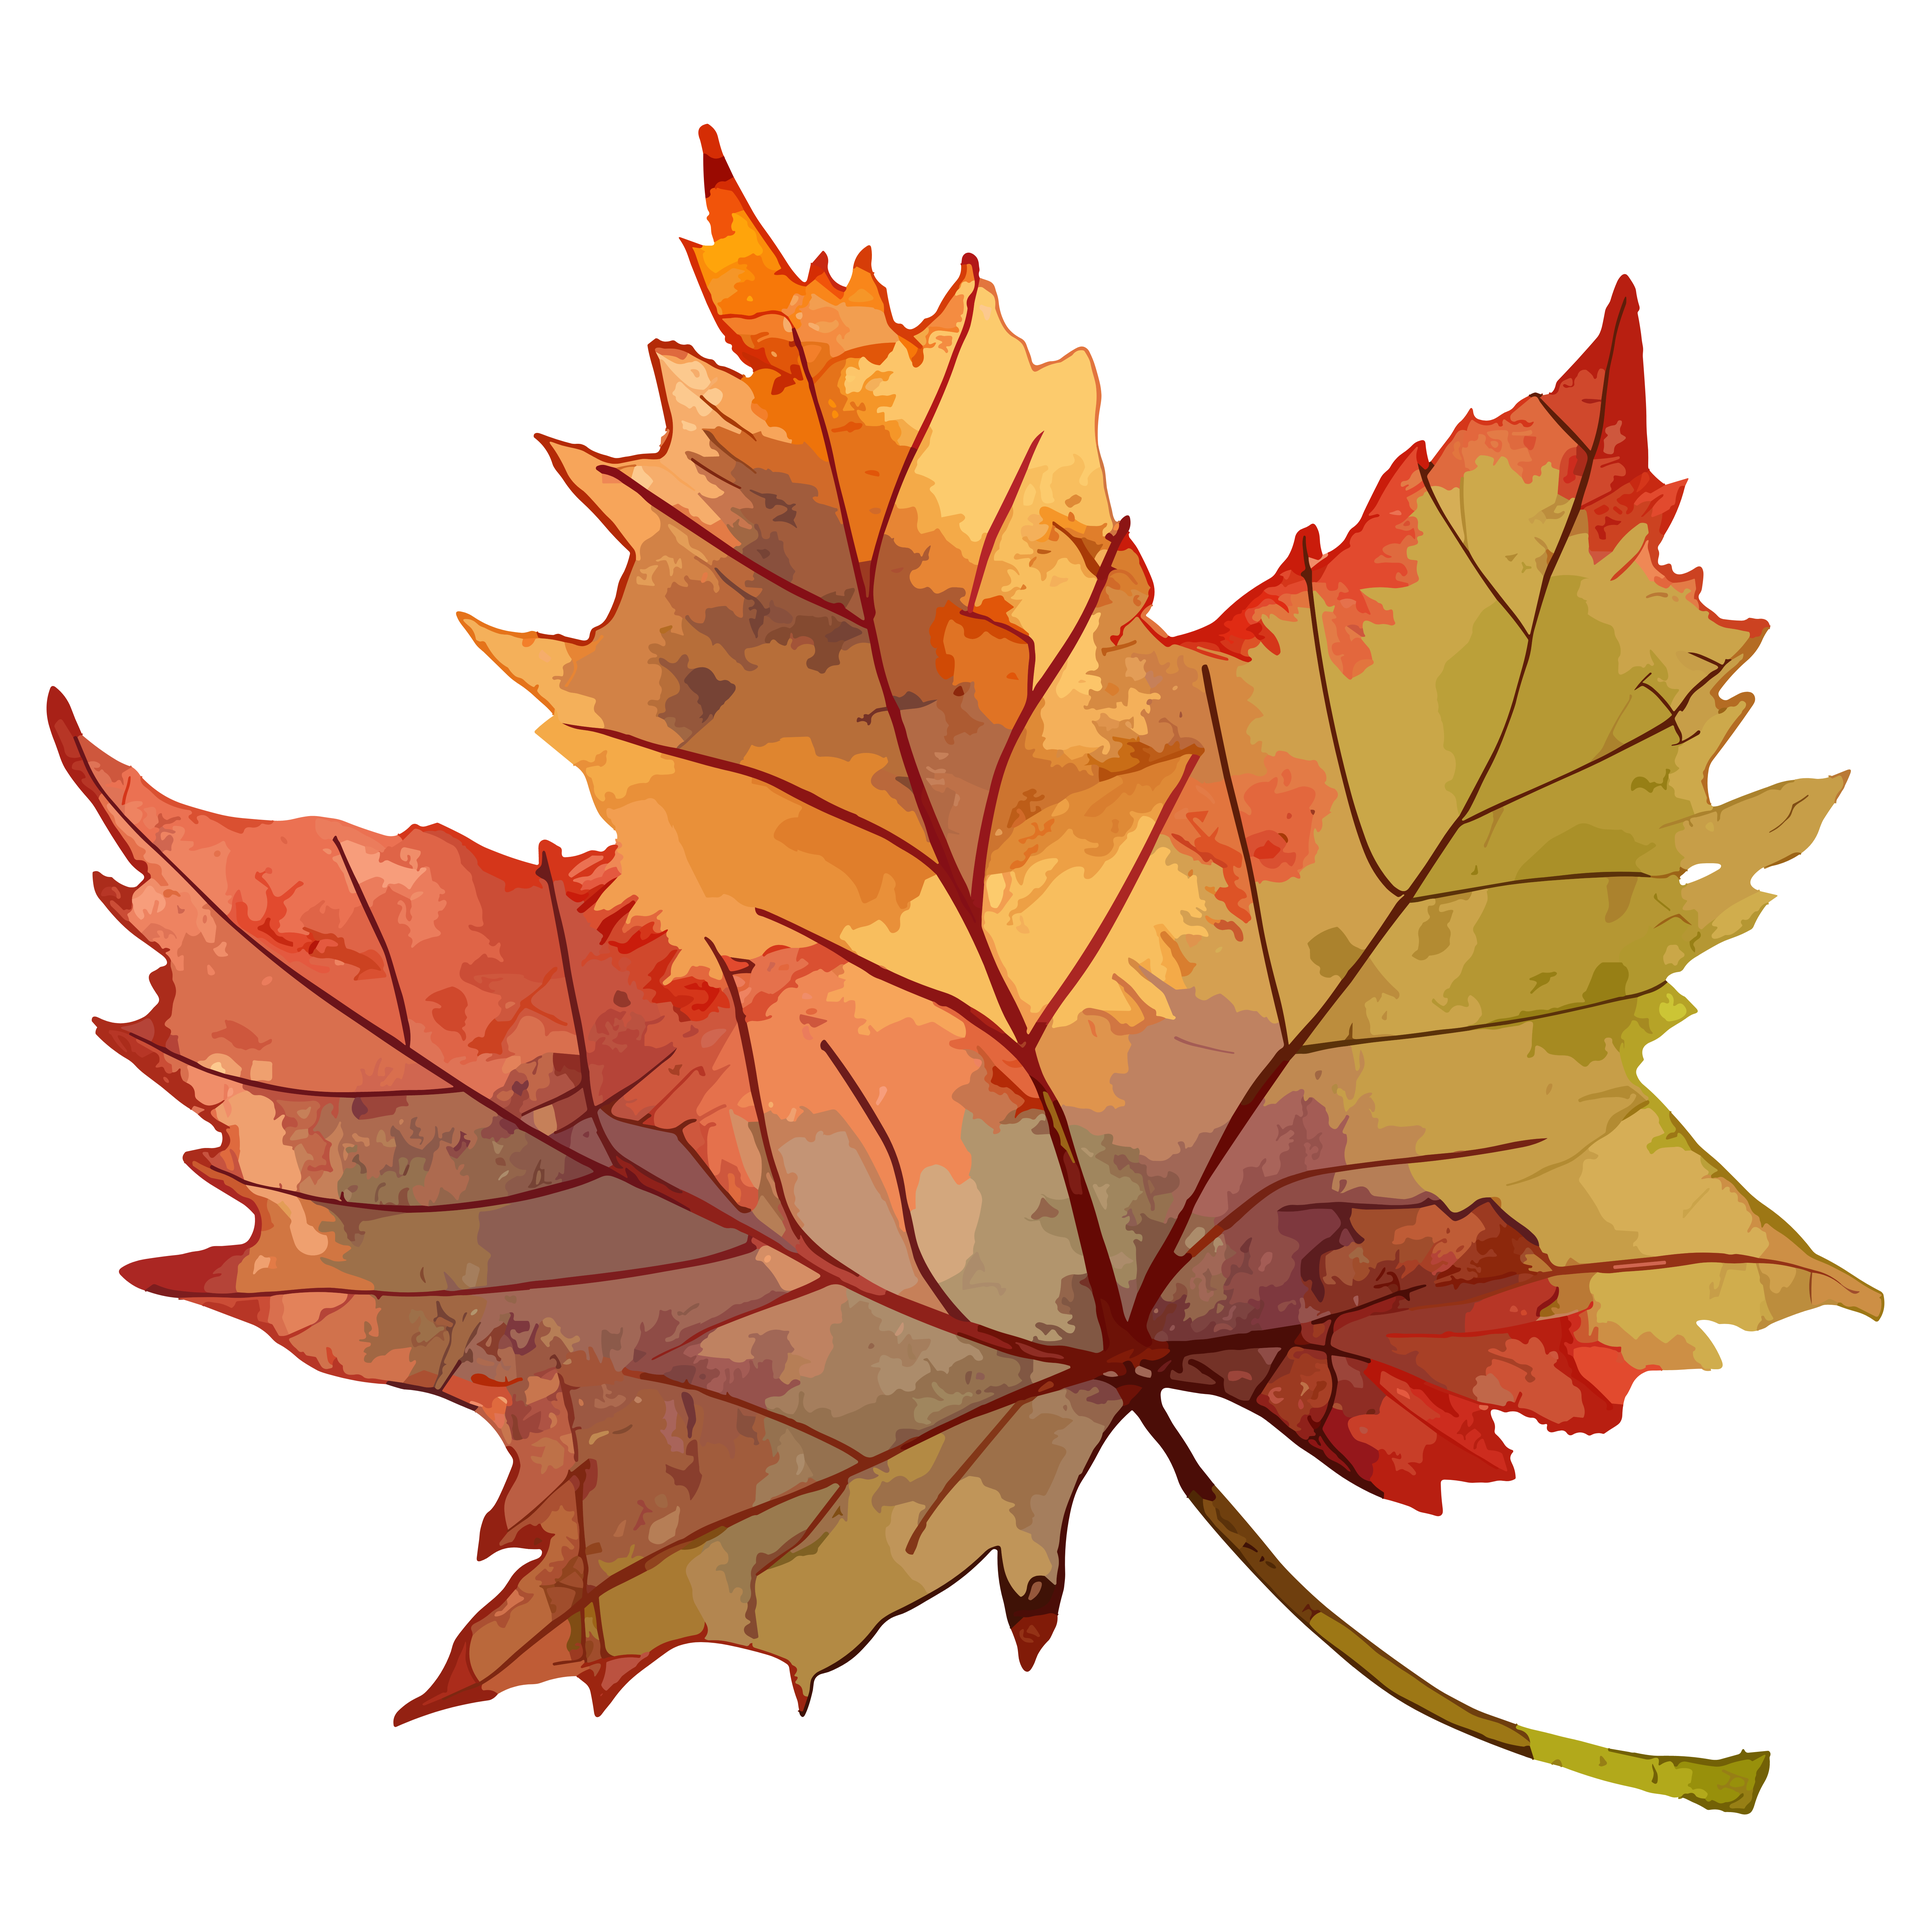
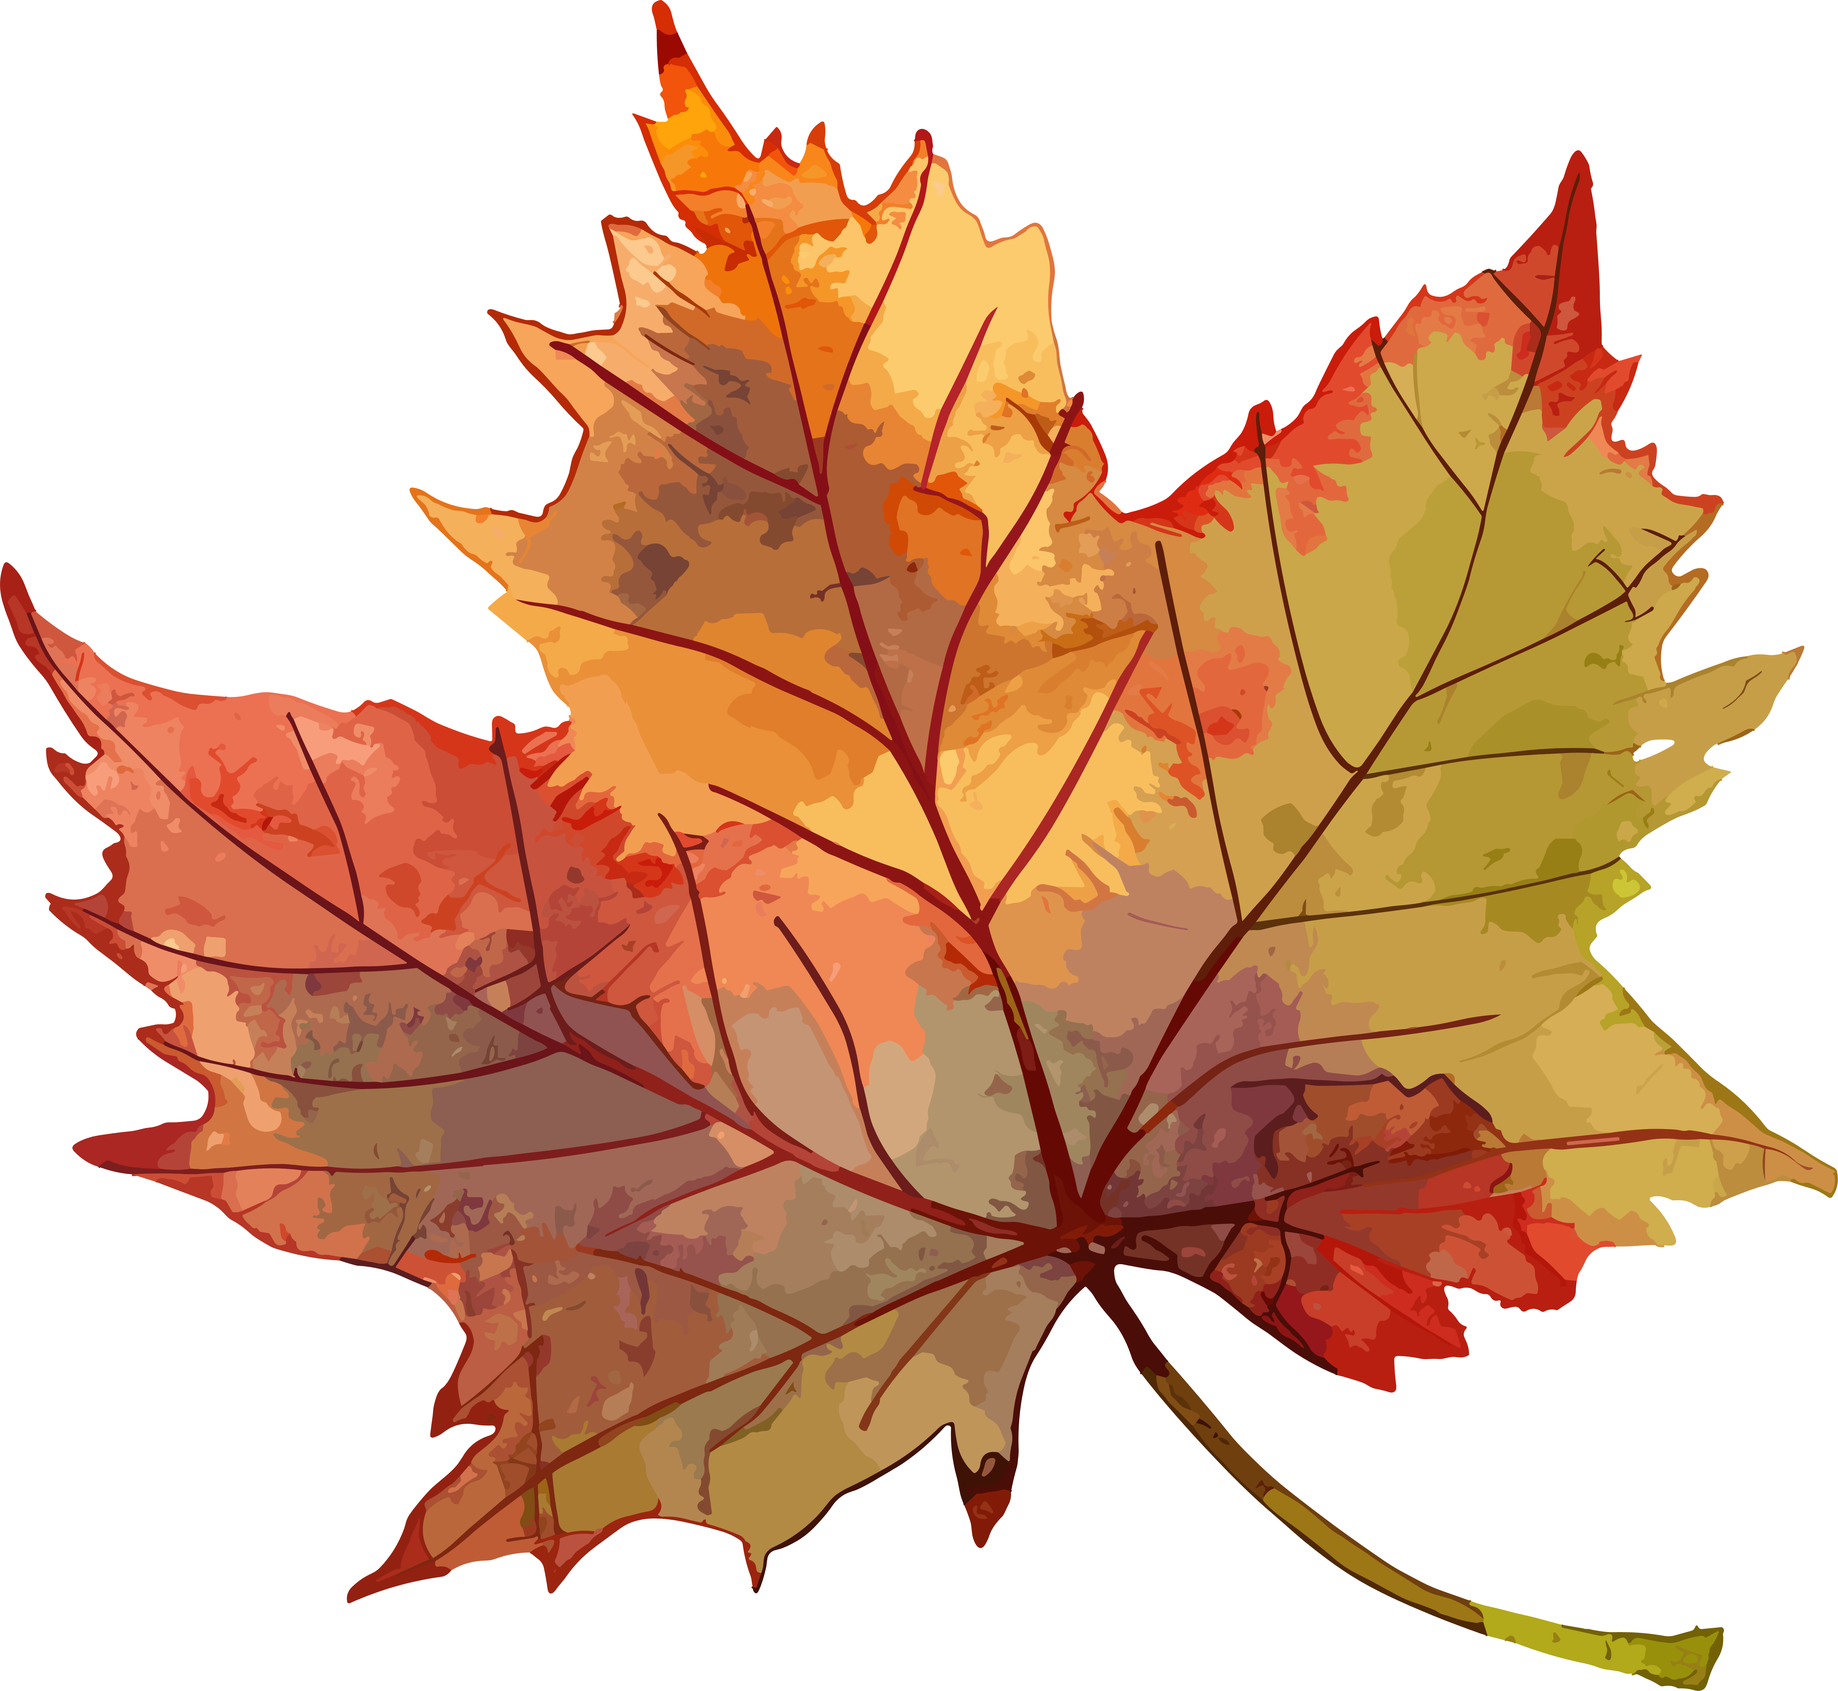
feat(leaf): crop skin art to content bbox, keep aspect on draw, lower damping, generic private skin discovery

Changed region(s): [[0.0, 0.0, 1.0, 1.0]]

diff --git a/tools/leaf_tool.cpp b/tools/leaf_tool.cpp
@@ -56,9 +56,9 @@ static constexpr int kResizeSettleIters = 18;
 static constexpr int kDragPositionIters = 3;
 static constexpr int kMaxDragSubsteps = 8;
 static constexpr qreal kGravity = 1400.0;
-// 线性阻尼略弱，叶子滑得更远一点；角阻尼先不动。
-static constexpr qreal kDamping = 0.935;
-static constexpr qreal kAngDamping = 0.750;
+// 阻尼再低一档：叶子滑得更远、转得更久。
+static constexpr qreal kDamping = 0.960;
+static constexpr qreal kAngDamping = 0.820;
 static constexpr qreal kMaxAngVel = 0.9;
 static constexpr qreal kMaxSpeed = 165.0;
 static constexpr qreal kCollisionTorque = 0.001;
@@ -180,8 +180,17 @@ static QString privateLeafSkinRoot(const QString& id) {
     return QDir(g_appRoot).filePath(QStringLiteral("resources/private_skin/leaf/%1").arg(id));
 }
 
+// 私人皮肤放在 resources/private_skin/leaf/<id>/（不入库），按目录发现，不硬编码皮肤名。
 static bool isPrivateLeafSkinId(const QString& id) {
-    return id == QLatin1String("nemuru1") || id == QLatin1String("nemuru2");
+    if (id.isEmpty()) return false;
+    return QFile::exists(
+        QDir(privateLeafSkinRoot(id)).filePath(QStringLiteral("skin.json")));
+}
+
+static QStringList privateLeafSkinIds() {
+    const QDir root(QDir(g_appRoot).filePath(QStringLiteral("resources/private_skin/leaf")));
+    if (!root.exists()) return {};
+    return root.entryList(QDir::Dirs | QDir::NoDotAndDotDot, QDir::Name);
 }
 
 static liveaio::resources::ToolSkin activeLeafSkin() {
@@ -207,7 +216,7 @@ static liveaio::resources::ToolSkin activeLeafSkin() {
 
 static QVector<liveaio::resources::SkinEntry> listLeafSkins() {
     auto skins = liveaio::resources::listSkins(g_appRoot, QStringLiteral("leaf"));
-    for (const QString& id : {QStringLiteral("nemuru1"), QStringLiteral("nemuru2")}) {
+    for (const QString& id : privateLeafSkinIds()) {
         QFile file(QDir(privateLeafSkinRoot(id)).filePath(QStringLiteral("skin.json")));
         if (!file.open(QIODevice::ReadOnly)) continue;
         const QJsonDocument doc = QJsonDocument::fromJson(file.readAll());
@@ -293,6 +302,15 @@ static int configuredMaxPercent() {
     return clampCapPercent(configValue(kMaxPercentKey, kCapPercentDefault).toInt());
 }
 
+// 贴图已裁到内容外接矩形，按原始长宽比居中放进目标框，避免被拉成框的比例。
+static QRectF fitPixmap(const QRectF& box, const QPixmap& pm) {
+    if (pm.isNull() || pm.width() <= 0 || pm.height() <= 0) return box;
+    const qreal k = std::min(box.width() / pm.width(), box.height() / pm.height());
+    const QSizeF sz(pm.width() * k, pm.height() * k);
+    return QRectF(box.center().x() - sz.width() * 0.5,
+                  box.center().y() - sz.height() * 0.5, sz.width(), sz.height());
+}
+
 static QPixmap cropOpaque(const QPixmap& src) {
     if (src.isNull()) return src;
     const QImage img = src.toImage().convertToFormat(QImage::Format_ARGB32);
@@ -308,8 +326,8 @@ static QPixmap cropOpaque(const QPixmap& src) {
         }
     }
     if (maxx < minx) return src;
-    QRect r(minx, miny, maxx - minx + 1, maxy - miny + 1);
-    r.adjust(-4, -4, 4, 4);
+    // 紧贴内容裁切，不留呼吸边：绘制时按长宽比 fit，不会被裁死。
+    const QRect r(minx, miny, maxx - minx + 1, maxy - miny + 1);
     return QPixmap::fromImage(img.copy(r.intersected(img.rect())));
 }
 
@@ -599,7 +617,9 @@ protected:
                                trashCell.center().y() - trashVis.height() * 0.5,
                                trashVis.width(), trashVis.height());
 
-        if (!assets.leafPm.isNull()) p.drawPixmap(leafRect.toRect(), assets.leafPm);
+        if (!assets.leafPm.isNull()) {
+            p.drawPixmap(fitPixmap(leafRect, assets.leafPm).toRect(), assets.leafPm);
+        }
         const QPixmap& trashDraw =
             assets.trashPreviewPm.isNull() ? assets.trashPm : assets.trashPreviewPm;
         if (!trashDraw.isNull()) p.drawPixmap(trashRect.toRect(), trashDraw);
@@ -1532,13 +1552,12 @@ private:
                              cmToPxF(leafParams().leafHaloOuterCm) * side / leafVisualPx());
         }
         p.setOpacity(L.alpha);
-        p.drawPixmap(dst.toRect(), pm);
+        p.drawPixmap(fitPixmap(dst, pm).toRect(), pm);
         p.restore();
     }
 
     void drawTrash(QPainter& p, const LeafSharedAssets& assets) const {
         const QRectF trash = trashDrawRect();
-        const QRect dst = trash.toRect();
         if (trashHalo_ > 0.01) {
             const qreal expand = cmToPxF(leafParams().trashHaloOuterCm) * trashScale_;
             const qreal amt = trashHalo_ * leafParams().trashHaloAmount;
@@ -1553,11 +1572,11 @@ private:
         }
         if (lidOpen_ < 0.999 && !assets.trashPm.isNull()) {
             p.setOpacity(1.0 - lidOpen_);
-            p.drawPixmap(dst, assets.trashPm);
+            p.drawPixmap(fitPixmap(trash, assets.trashPm).toRect(), assets.trashPm);
         }
         if (lidOpen_ > 0.001 && !assets.trashOpenPm.isNull()) {
             p.setOpacity(lidOpen_);
-            p.drawPixmap(dst, assets.trashOpenPm);
+            p.drawPixmap(fitPixmap(trash, assets.trashOpenPm).toRect(), assets.trashOpenPm);
         }
         p.setOpacity(1.0);
     }

diff --git a/scripts/crop_alpha.py b/scripts/crop_alpha.py
@@ -1,0 +1,56 @@
+"""把 PNG 裁到 alpha 内容的最小外接矩形。
+
+用法：
+    python scripts/crop_alpha.py a.png [b.png ...]           # 各自独立裁切
+    python scripts/crop_alpha.py --union a.png b.png [...]   # 共用并集包围盒
+
+同一组贴图（例如垃圾桶的合盖/开盖）必须用 --union，否则两张图的内容位置会错开，
+切换状态时画面会跳。
+"""
+
+import sys
+from pathlib import Path
+
+import numpy as np
+from PIL import Image
+
+ALPHA_MIN = 8
+
+
+def bbox(alpha):
+    ys, xs = np.nonzero(alpha >= ALPHA_MIN)
+    if not len(ys):
+        return None
+    return xs.min(), ys.min(), xs.max(), ys.max()
+
+
+def main(argv):
+    union = "--union" in argv
+    paths = [Path(a) for a in argv if not a.startswith("--")]
+    if not paths:
+        print(__doc__)
+        return 1
+
+    images = [np.array(Image.open(p).convert("RGBA")) for p in paths]
+    boxes = [bbox(im[..., 3]) for im in images]
+    if any(b is None for b in boxes):
+        print("空图或全透明：", [p for p, b in zip(paths, boxes) if b is None])
+        return 1
+
+    if union:
+        x0 = min(b[0] for b in boxes)
+        y0 = min(b[1] for b in boxes)
+        x1 = max(b[2] for b in boxes)
+        y1 = max(b[3] for b in boxes)
+        boxes = [(x0, y0, x1, y1)] * len(paths)
+
+    for path, im, (x0, y0, x1, y1) in zip(paths, images, boxes):
+        out = im[y0:y1 + 1, x0:x1 + 1]
+        Image.fromarray(out, "RGBA").save(path)
+        print(f"{path}  {im.shape[1]}x{im.shape[0]} -> {out.shape[1]}x{out.shape[0]}  "
+              f"aspect={round(out.shape[0] / out.shape[1], 4)}")
+    return 0
+
+
+if __name__ == "__main__":
+    sys.exit(main(sys.argv[1:]))
